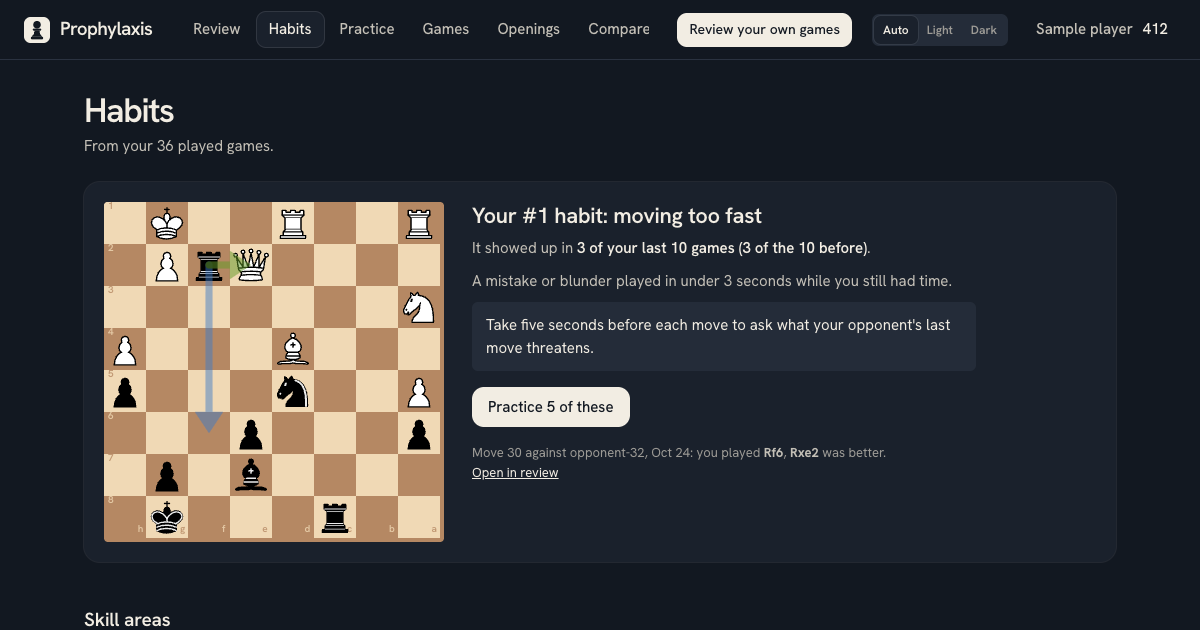
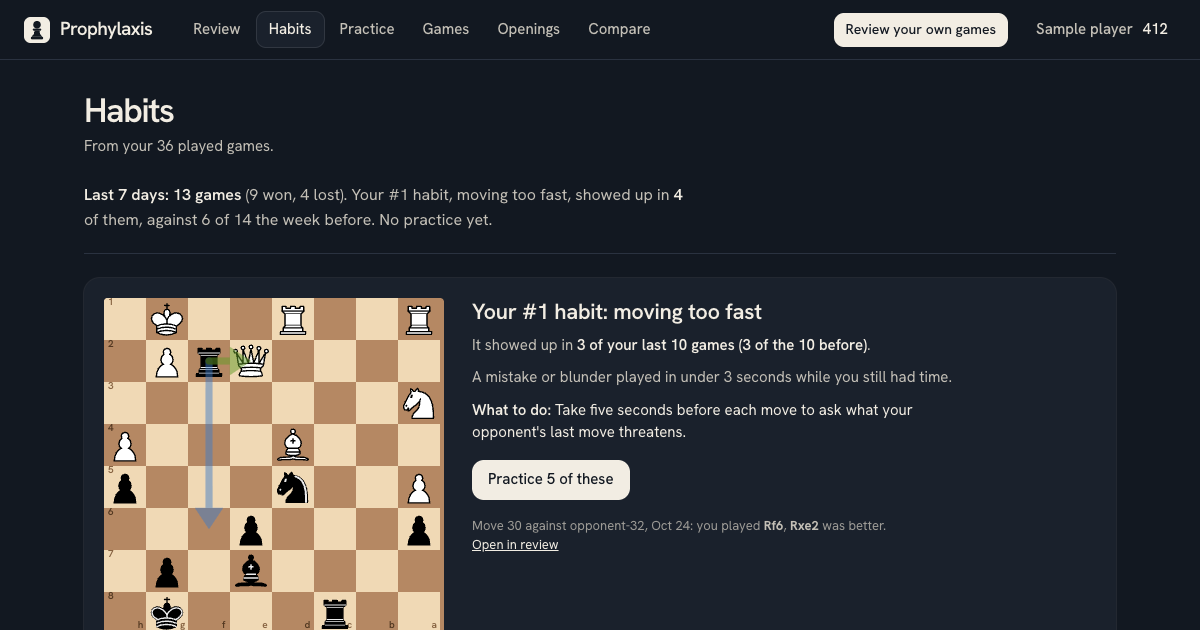
Calmer pages: sentences and tables instead of tiles, fewer nested boxes
The last 7 days read as one sentence and skill areas as a table. The #1 habit's
advice, the game's turning point and the habit list lose their inner boxes.
Practice leads with the task in large type. The theme switch moves into the
player menu once a player is chosen.

Changed region(s): [[0.0617, 0.3016, 0.8017, 1.0], [0.555, 0.0, 0.8633, 0.0905]]

diff --git a/web/src/pages/pages.css b/web/src/pages/pages.css
@@ -65,56 +65,22 @@
 
 /* Your last 7 days (Week.tsx): three counts in a row, stacking on a phone. */
 .week {
-  margin-bottom: 20px;
+  margin-bottom: 24px;
+  padding-bottom: 20px;
+  border-bottom: 1px solid var(--c-line);
 }
 
-.week h2 {
-  margin: 0 0 10px;
-  font-size: 15px;
-  font-weight: 600;
-  color: var(--c-ink-2);
-}
-
-.week-stats {
-  display: grid;
-  grid-template-columns: repeat(3, minmax(0, 1fr));
-  gap: 12px;
+.week p {
+  max-width: 68ch;
   margin: 0;
-}
-
-@media (max-width: 640px) {
-  .week-stats {
-    grid-template-columns: minmax(0, 1fr);
-  }
-}
-
-.week-stats > div {
-  min-width: 0;
-  padding: 14px 16px;
-  border-radius: 12px;
-  background: var(--c-panel);
-  box-shadow: 0 0 0 1px var(--c-panel-edge);
-}
-
-.week-stats dt {
-  color: var(--c-ink-3);
-  font-size: 13px;
-}
-
-.week-stats dd {
-  display: flex;
-  flex-wrap: wrap;
-  gap: 2px 8px;
-  align-items: baseline;
-  margin: 4px 0 0;
   color: var(--c-ink-2);
-  font-size: 14px;
+  font-size: 16px;
+  line-height: 1.6;
 }
 
-.week-stats dd b {
+.week b {
   color: var(--c-ink);
-  font-size: 24px;
-  font-weight: 650;
+  font-weight: 600;
 }
 
 .focus {
@@ -205,10 +171,11 @@
 }
 
 .focus-fix {
-  padding: 12px 14px;
-  border-radius: 6px;
-  background: var(--c-panel-2);
   color: var(--c-ink) !important;
+}
+
+.focus-fix b {
+  font-weight: 600;
 }
 
 .focus-actions {
@@ -253,59 +220,24 @@
 
 /* ---------- Skills ---------- */
 
-.skills {
-  display: grid;
-  grid-template-columns: repeat(3, minmax(0, 1fr));
-  gap: 1px;
-  margin: 0;
-  padding: 0;
-  list-style: none;
-  border-radius: 16px;
-  overflow: hidden;
-  background: var(--c-line);
-  box-shadow: 0 0 0 1px var(--c-panel-edge);
-}
-
-.skill {
-  padding: 16px 18px;
-  background: var(--c-panel);
-}
-
-.skill h3 {
-  margin: 0;
-  font-size: 15px;
+.skills-table th[scope="row"] {
   font-weight: 600;
 }
 
-.skill-q {
-  margin: 2px 0 12px;
-  min-height: 2.6em;
-  color: var(--c-ink-3);
-  font-size: 13px;
+.skills-table th[scope="row"] small {
+  display: block;
+  margin-top: 2px;
+  font-weight: 400;
 }
 
-.skill-value {
-  margin: 0;
-  color: var(--c-ink-3);
-  font-size: 13px;
+.ptable.skills-table td.num small {
+  display: block;
 }
 
-.skill-value b {
-  margin-right: 4px;
+.skills-table td b {
   color: var(--c-ink);
-  font-size: 28px;
+  font-size: 17px;
   font-weight: 600;
-  letter-spacing: -0.02em;
-  font-variant-numeric: normal;
-}
-
-.skill-was {
-  display: flex;
-  gap: 10px;
-  align-items: center;
-  margin: 6px 0 0;
-  color: var(--c-ink-3);
-  font-size: 13px;
 }
 
 .trend {
@@ -325,10 +257,7 @@
   margin: 0;
   padding: 0;
   list-style: none;
-  border-radius: 16px;
-  overflow: hidden;
-  background: var(--c-panel);
-  box-shadow: 0 0 0 1px var(--c-panel-edge);
+  border-block: 1px solid var(--c-line);
 }
 
 .habit-list li {
@@ -336,7 +265,7 @@
   grid-template-columns: 28px minmax(0, 1fr) 150px 170px 92px;
   gap: 16px;
   align-items: center;
-  padding: 14px 18px;
+  padding: 14px 0;
 }
 
 /* One width for "Puzzles" and "Practice", so the figures line up row to row. */
@@ -671,10 +600,6 @@
     max-width: 420px;
   }
 
-  .skills {
-    grid-template-columns: repeat(2, minmax(0, 1fr));
-  }
-
   .habit-list li {
     grid-template-columns: 24px minmax(0, 1fr) auto;
   }
@@ -697,10 +622,6 @@
 @media (max-width: 560px) {
   .page {
     padding: 22px 16px 56px;
-  }
-
-  .skills {
-    grid-template-columns: minmax(0, 1fr);
   }
 
   .hide-sm {

diff --git a/web/src/pages/Habits.tsx b/web/src/pages/Habits.tsx
@@ -67,7 +67,9 @@ function Focus({ w }: { w: Weakness }) {
           It showed up in <b>{windowLine(w)}</b>.
         </p>
         <p>{w.what}</p>
-        <p className="focus-fix">{w.fix}</p>
+        <p className="focus-fix">
+          <b>What to do:</b> {w.fix}
+        </p>
         <div className="focus-actions">
           {positions > 0 && (
             <a className="pbtn pbtn--primary" href={href({ name: "practice", tag: w.tag })}>
@@ -101,21 +103,34 @@ function Skills({ skills, played }: { skills: Skill[]; played: number }) {
           ? `Your last ${games} games against the ${played - games} before.`
           : `Your ${games} games so far. Once you have more than ${SKILL_RECENT}, each area compares your last ${SKILL_RECENT} with the ones before.`}
       </p>
-      <ul className="skills">
-        {skills.map((s) => (
-          <li key={s.key} className="skill">
-            <h3>{s.title}</h3>
-            <p className="skill-q">{s.question}</p>
-            <p className="skill-value">
-              <b className="num">{formatSkill(s, s.recent)}</b> <span>{SKILL_UNIT[s.key] ?? s.unit}</span>
-            </p>
-            <p className="skill-was">
-              {s.recent !== null && <Direction now={s.recent} was={s.before} better={s.better} />}
-              {s.before !== null && <span className="num">was {formatSkill(s, s.before)}</span>}
-            </p>
-          </li>
-        ))}
-      </ul>
+      <div className="table-scroll">
+        <table className="ptable skills-table">
+          <thead>
+            <tr>
+              <th scope="col">Area</th>
+              <th scope="col" className="num">{played > games ? `Last ${games}` : "Now"}</th>
+              <th scope="col" className="num">Before</th>
+              <th scope="col">Change</th>
+            </tr>
+          </thead>
+          <tbody>
+            {skills.map((s) => (
+              <tr key={s.key}>
+                <th scope="row">
+                  {s.title}
+                  <small>{s.question}</small>
+                </th>
+                <td className="num">
+                  <b>{formatSkill(s, s.recent)}</b>
+                  <small>{SKILL_UNIT[s.key] ?? s.unit}</small>
+                </td>
+                <td className="num">{s.before !== null ? formatSkill(s, s.before) : "–"}</td>
+                <td>{s.recent !== null && <Direction now={s.recent} was={s.before} better={s.better} />}</td>
+              </tr>
+            ))}
+          </tbody>
+        </table>
+      </div>
     </section>
   );
 }

diff --git a/web/src/pages/Week.tsx b/web/src/pages/Week.tsx
@@ -30,38 +30,27 @@ export function Week({ habit }: { habit: Weakness }) {
     results.draw && `${results.draw} drawn`,
   ].filter(Boolean).join(", ");
 
+  const games = (n: number) => `${n} game${n === 1 ? "" : "s"}`;
+  const practice = tries.length
+    ? `${tries.length} practice position${tries.length === 1 ? "" : "s"}, ${clean} found first time.`
+    : "No practice yet.";
+
   return (
     <section className="week" aria-labelledby="week-title">
-      <h2 id="week-title">Your last 7 days</h2>
-      <dl className="week-stats">
-        <div>
-          <dt>Games</dt>
-          <dd>
-            <b className="num">{week.length}</b>
-            <span>{week.length ? resultLine : `Your last game was ${day(last)}.`}</span>
-          </dd>
-        </div>
-        {week.length > 0 && (
-          <div>
-            <dt>Your #1 habit, {name}</dt>
-            <dd>
-              <b className="num">
-                {week.filter(has).length} of {week.length}
-              </b>
-              <span>
-                {before.length ? `games, against ${before.filter(has).length} of ${before.length} the 7 days before` : "games"}
-              </span>
-            </dd>
-          </div>
+      <p>
+        <b id="week-title">Last 7 days:</b>{" "}
+        {week.length ? (
+          <>
+            <b className="num">{games(week.length)}</b> ({resultLine}). Your #1 habit, {name}, showed up in{" "}
+            <b className="num">{week.filter(has).length}</b> of them
+            {before.length ? `, against ${before.filter(has).length} of ${before.length} the week before` : ""}. {practice}
+          </>
+        ) : (
+          <>
+            no games; your last was {day(last)}. {practice}
+          </>
         )}
-        <div>
-          <dt>Practice</dt>
-          <dd>
-            <b className="num">{tries.length}</b>
-            <span>{tries.length ? `positions, ${clean} found first time` : "positions so far"}</span>
-          </dd>
-        </div>
-      </dl>
+      </p>
     </section>
   );
 }

diff --git a/web/src/review/review.css b/web/src/review/review.css
@@ -388,10 +388,11 @@
   gap: 12px;
   width: 100%;
   margin: 0 0 18px;
-  padding: 14px 16px;
+  padding: 12px 0;
   border: 0;
-  border-radius: 14px;
-  background: var(--c-panel-2);
+  border-block: 1px solid var(--c-line);
+  border-radius: 0;
+  background: transparent;
   color: var(--c-ink);
   font: inherit;
   text-align: left;
@@ -399,8 +400,14 @@
   transition: background-color 150ms var(--c-ease);
 }
 
-.turn:hover {
-  background: var(--c-hover);
+.turn:hover .turn-text {
+  text-decoration: underline;
+  text-underline-offset: 3px;
+}
+
+.turn:focus-visible {
+  outline: 2px solid var(--c-accent);
+  outline-offset: 2px;
 }
 
 .turn-text b {
@@ -663,6 +670,24 @@
 .coach-class--mistake { color: var(--gi-mistake); }
 .coach-class--miss { color: var(--gi-miss); }
 .coach-class--blunder { color: var(--gi-blunder); }
+
+.rv--drill .coach {
+  max-height: none;
+  padding: 22px 20px;
+  border-bottom: 0;
+}
+
+.coach-context {
+  font-size: 14px;
+}
+
+.coach .coach-ask {
+  margin: 2px 0 18px;
+  font-size: 26px;
+  line-height: 1.2;
+  letter-spacing: -0.02em;
+  text-wrap: balance;
+}
 
 .coach-habit {
   padding-top: 8px;

diff --git a/web/src/pages/Practice.tsx b/web/src/pages/Practice.tsx
@@ -238,9 +238,8 @@ function Session({
             <div className="coach" aria-live="polite">
               {trying ? (
                 <>
-                  <h2>
-                    In the game you played {moveLabel(p.ply, p.san, p.color)}. Find a better move for {p.color}.
-                  </h2>
+                  <p className="coach-context">In the game you played {moveLabel(p.ply, p.san, p.color)}.</p>
+                  <h2 className="coach-ask">Find a better move for {p.color}.</h2>
                   {lastTry && (
                     <p className="coach-feedback coach-feedback--no" key={attempt.tries.length}>
                       Not quite: {sanOf(p.fen, lastTry)} leaves your chances at {Math.round(p.wins[lastTry] ?? 0)}%. Try another move.

diff --git a/web/src/App.tsx b/web/src/App.tsx
@@ -177,7 +177,8 @@ function TopBar({ route }: { route: Route }) {
         )}
         {player && <ProgressPill />}
         {player && route.name !== "compare" && <ComparePill />}
-        <ThemeSwitch />
+        {/* With a player, the theme is in their menu; before one is chosen, it's here. */}
+        {!player && <ThemeSwitch />}
         {player && <PlayerMenu player={player} />}
       </div>
     </header>

diff --git a/CHANGELOG.md b/CHANGELOG.md
@@ -4,6 +4,8 @@ The changes a player would notice, newest first. Each links to the study or repo
 
 ## November 27, 2026
 
+- **Calmer pages:** the last 7 days read as one sentence, skill areas as a table, Practice leads with the task, and
+  fewer boxes inside boxes. The theme switch lives in the player menu.
 - **Lichess players too:** choose chess.com or Lichess on the first screen. Lichess games are reviewed the same
   way, Compare looks players up on your own site, and Maia reads Lichess ratings as they are (it learned from
   Lichess games). The Chrome extension stays chess.com-only.
